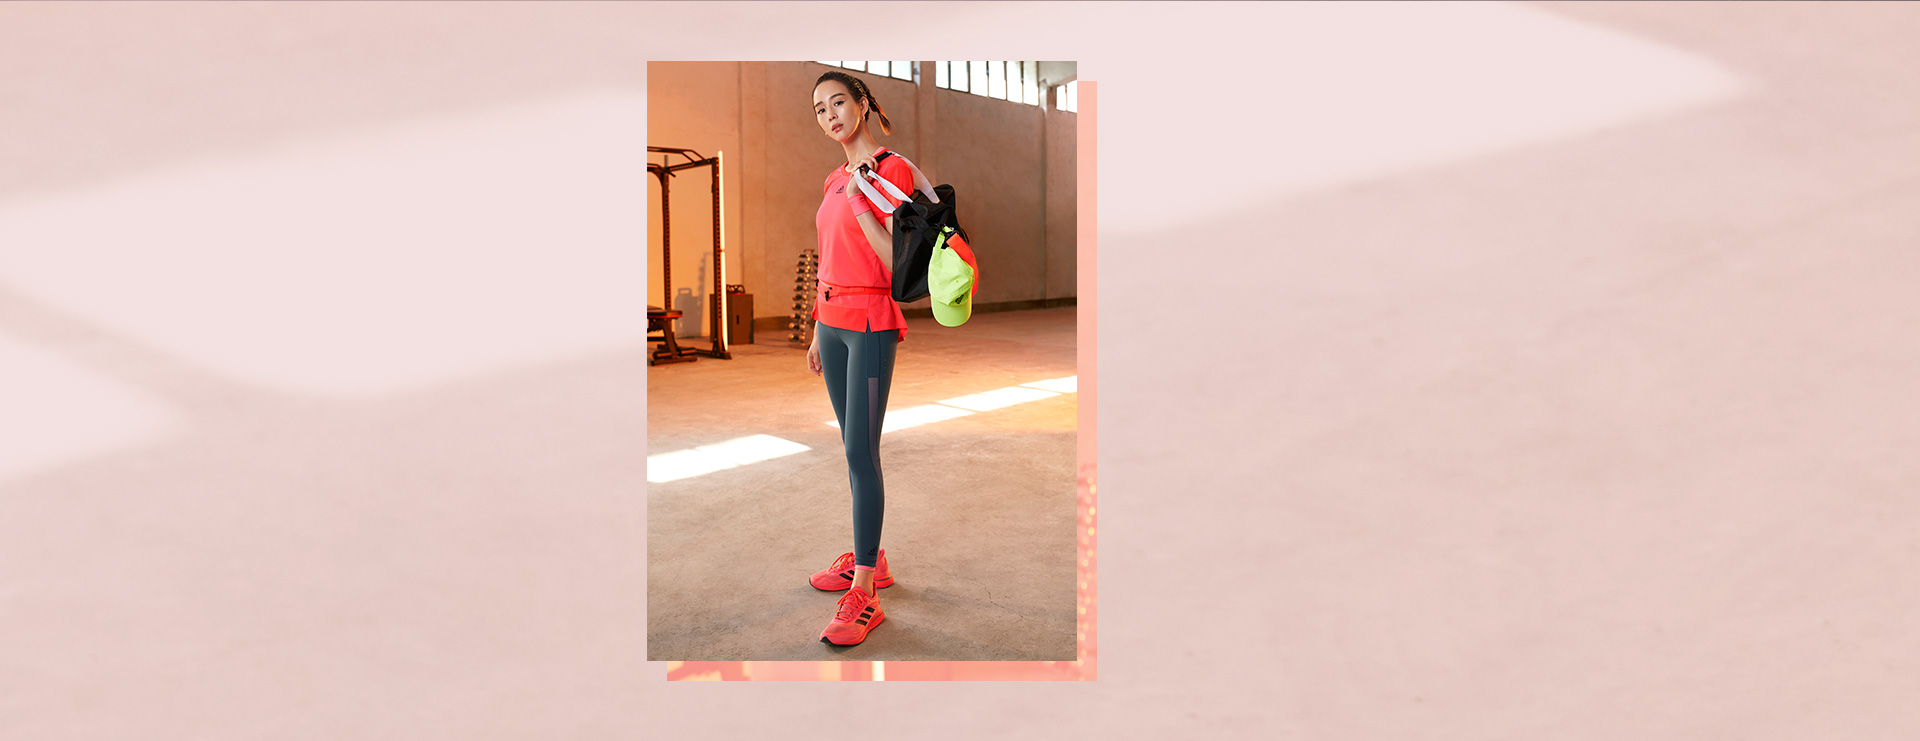
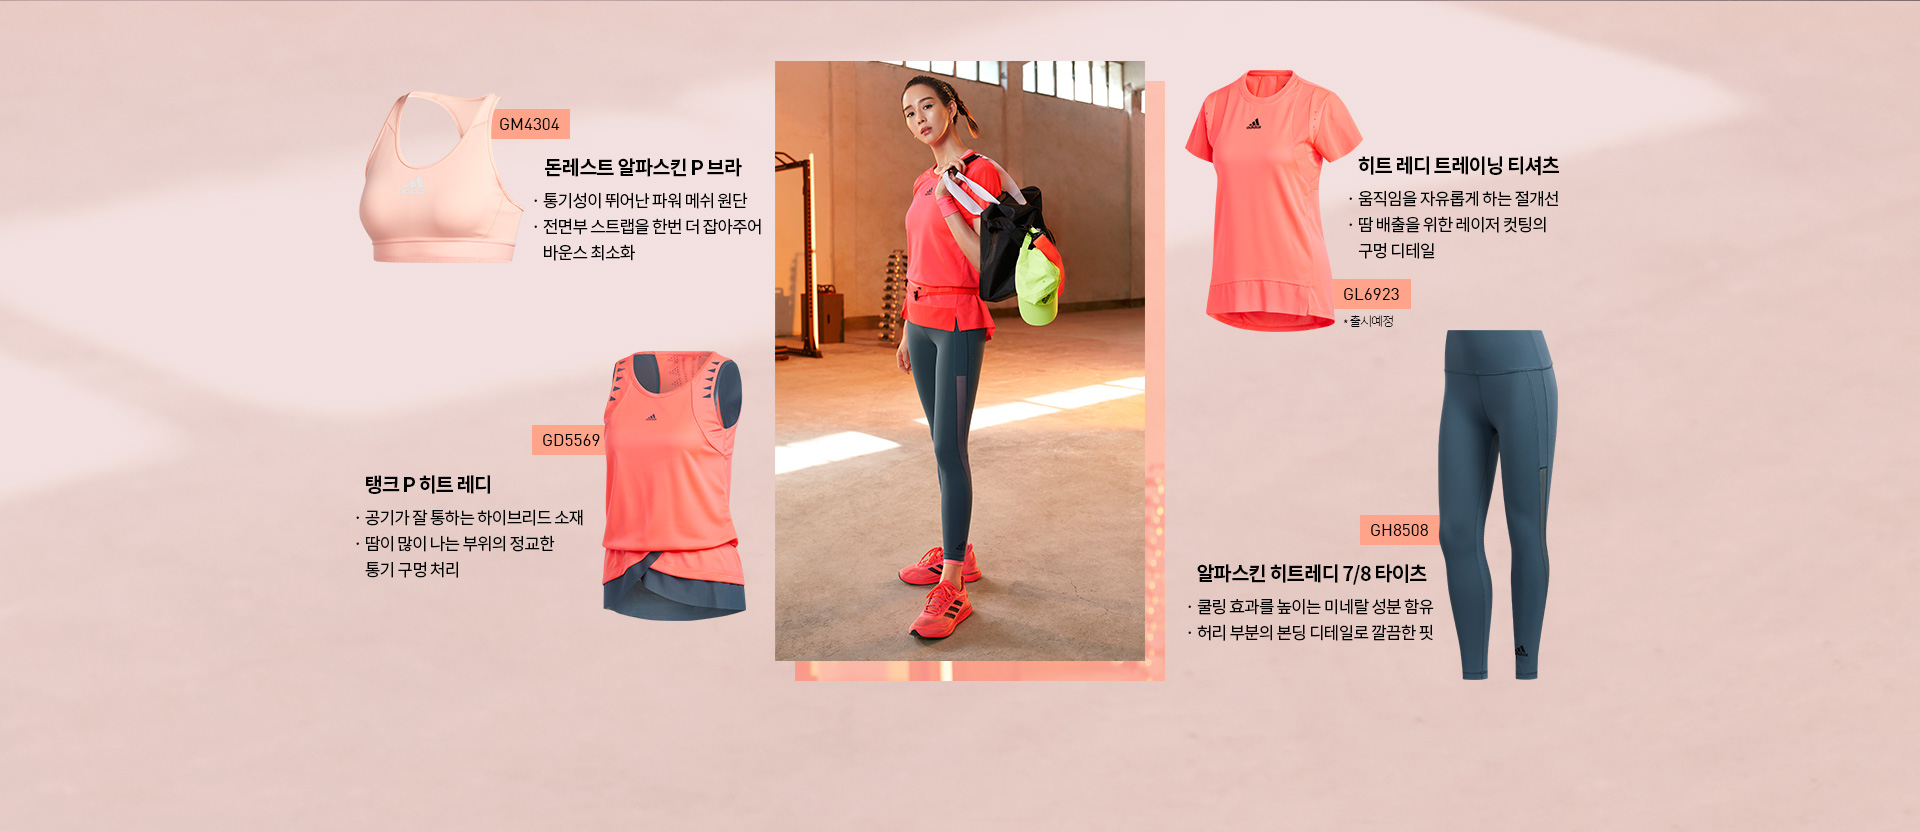
adi_CP_HEAT.RDY 업데이트

Changed region(s): [[0.1875, 0.0621, 0.8125, 0.9312]]

diff --git a/front/html/adidas/2020/event/rdy/0713_summer/build/index.html b/front/html/adidas/2020/event/rdy/0713_summer/build/index.html
@@ -30,7 +30,7 @@
 		<!-- header HTML -->
 
 		<div id="container_r" class="campaign-content">
-<style type="text/css">.pseudo-element{content:'';display:block}html,body{height:100%}#wrap{min-width:1190px;overflow:hidden}button{outline:none}.inner{max-width:1200px;margin:0 auto;position:relative;box-sizing:border-box}.button_area_v2{display:inline-block}.button_area_v2:hover div a{color:#767677}.button_area_v2:hover div a span{background:#767677}.button_area_v2:hover div a span em{background:#767677}.button_area_v2 div.white .bg{box-shadow:inset 0 0 0 1px #fff;-webkit-box-shadow:inset 0 0 0 1px #fff;transition:all 0.5s;-webkit-transition:all 0.5s;-moz-transition:all 0.5s;-o-transition:all 0.5s;-ms-transition:all 0.5s}.button_area_v2 div.white a{background:#fff}.button_area_v2 div .bg{box-shadow:inset 0 0 0 1px #000;-webkit-box-shadow:inset 0 0 0 1px #000;transition:all 0.5s;-webkit-transition:all 0.5s;-moz-transition:all 0.5s;-o-transition:all 0.5s;-ms-transition:all 0.5s}.button_area_v2 div a{letter-spacing:1px;padding:0 20px;background:#000}#readyforsummer{max-width:1920px}#readyforsummer .section{position:relative}#readyforsummer .section.sect_visual>img{display:block;width:100%}#readyforsummer .section.sect_visual .sect_visual_title{display:inline-block;width:1100px;position:absolute;top:15%;left:50%;margin-left:calc(-1100px/2);z-index:2;font-family:'NotoSansKR';color:#fff}#readyforsummer .section.sect_visual .sect_visual_title.dn{display:none}#readyforsummer .section.sect_visual .sect_visual_title h3>img{display:block}#readyforsummer .section.sect_visual .sect_visual_title h4{padding-top:15px;font-size:48px;line-height:48px;font-weight:600}#readyforsummer .section.sect_line>img{display:block;width:100%}#readyforsummer .section.sect_video{text-align:center}#readyforsummer .section.sect_video .btn-play{display:inline-block;position:absolute;top:50%;left:50%;transform:translate(-50%, -50%);z-index:2;background:none;border:0 none;cursor:pointer}#readyforsummer .section.sect_statment{padding:35px 0 50px}#readyforsummer .section.sect_statment .inner{color:#000;text-align:center}#readyforsummer .section.sect_statment .inner>*{text-align:center}#readyforsummer .section.sect_statment .inner h3{padding-bottom:15px}#readyforsummer .section.sect_statment .inner h3>img{display:inline-block}#readyforsummer .section.sect_statment .inner h4{padding-bottom:25px;font:600 48px/48px 'NotoSansKR';letter-spacing:4px}#readyforsummer .section.sect_statment .inner p{padding-bottom:25px;font:400 20px/26px 'NotoSansKR';letter-spacing:1px}#readyforsummer .section.sect_statment .inner p.boldtext{font-size:24px;line-height:30px;font-weight:600}#readyforsummer .section.sect_statment .inner .button_area_v2{margin-top:20px;display:inline-block}#readyforsummer .section.sect_feature{padding:70px 0;background:url("/images/adidas/2020/event/rdy/0713_summer/feature_bg.jpg") 0 0 no-repeat;background-size:auto 100%}#readyforsummer .section.sect_feature ul{overflow:hidden;width:76.5625%;min-width:1300px;margin:0 auto}#readyforsummer .section.sect_feature ul li{float:left;width:31.2925%;padding:0 1.0204%;color:#000}#readyforsummer .section.sect_feature ul li img{display:block;width:100%}#readyforsummer .section.sect_feature ul li h5{padding:30px 0 10px;font:600 26px/26px 'NotoSansKR';text-align:center}#readyforsummer .section.sect_feature ul li p{font:400 20px/20px 'NotoSansKR';text-align:center}#readyforsummer .section.sect_prds{height:740px}#readyforsummer .section.sect_prds>*{position:absolute;top:0;left:50%;transform:translateX(-50%);z-index:1}#readyforsummer .section.sect_prds .sect_prds_bg{width:1920px}#readyforsummer .section.sect_prds .sect_prds_img{width:1440px;top:60px}#readyforsummer .section.sect_prds .sect_prds_img>img{display:block}#readyforsummer .section.sect_prds .sect_prds_img .sect_prds_buybox{position:absolute;bottom:0;left:125px;z-index:2}#readyforsummer .section.sect_prds .sect_prds_img .sect_prds_buybox h3>img{display:inline-block}#readyforsummer .section.sect_prds .sect_prds_img .sect_prds_buybox .button_area_v2{margin-top:15px;display:inline-block}#readyforsummer .section.sect_prds .sect_prds_img .sect_prds_buybox.posright{left:auto;right:125px;bottom:-20px;text-align:right}#readyforsummer .section.sect_prds .sect_prds_img .sect_prds_buybox.posright h3{text-align:right}#readyforsummer .section.sect_subcut ul{overflow:hidden;width:100%}#readyforsummer .section.sect_subcut ul li{float:left;width:25%}#readyforsummer .section.sect_subcut ul li img{display:block;width:100%}
+<style type="text/css">.pseudo-element{content:'';display:block}html,body{height:100%}#wrap{min-width:1190px;overflow:hidden}button{outline:none}.inner{max-width:1200px;margin:0 auto;position:relative;box-sizing:border-box}.button_area_v2{display:inline-block}.button_area_v2:hover div a{color:#767677}.button_area_v2:hover div a span{background:#767677}.button_area_v2:hover div a span em{background:#767677}.button_area_v2 div.white .bg{box-shadow:inset 0 0 0 1px #fff;-webkit-box-shadow:inset 0 0 0 1px #fff;transition:all 0.5s;-webkit-transition:all 0.5s;-moz-transition:all 0.5s;-o-transition:all 0.5s;-ms-transition:all 0.5s}.button_area_v2 div.white a{background:#fff}.button_area_v2 div .bg{box-shadow:inset 0 0 0 1px #000;-webkit-box-shadow:inset 0 0 0 1px #000;transition:all 0.5s;-webkit-transition:all 0.5s;-moz-transition:all 0.5s;-o-transition:all 0.5s;-ms-transition:all 0.5s}.button_area_v2 div a{letter-spacing:1px;padding:0 20px;background:#000}#readyforsummer{max-width:1920px}#readyforsummer .section{position:relative}#readyforsummer .section.sect_visual>img{display:block;width:100%}#readyforsummer .section.sect_visual .sect_visual_title{display:inline-block;width:1100px;position:absolute;top:15%;left:50%;margin-left:calc(-1100px/2);z-index:2;font-family:'NotoSansKR';color:#fff}#readyforsummer .section.sect_visual .sect_visual_title.dn{display:none}#readyforsummer .section.sect_visual .sect_visual_title h3>img{display:block}#readyforsummer .section.sect_visual .sect_visual_title h4{padding-top:15px;font-size:48px;line-height:48px;font-weight:600}#readyforsummer .section.sect_line>img{display:block;width:100%}#readyforsummer .section.sect_video{text-align:center}#readyforsummer .section.sect_video .btn-play{display:inline-block;position:absolute;top:50%;left:50%;transform:translate(-50%, -50%);z-index:2;background:none;border:0 none;cursor:pointer}#readyforsummer .section.sect_statment{padding:35px 0 50px}#readyforsummer .section.sect_statment .inner{color:#000;text-align:center}#readyforsummer .section.sect_statment .inner>*{text-align:center}#readyforsummer .section.sect_statment .inner h3{padding-bottom:15px}#readyforsummer .section.sect_statment .inner h3>img{display:inline-block}#readyforsummer .section.sect_statment .inner h4{padding-bottom:25px;font:600 48px/48px 'NotoSansKR';letter-spacing:4px}#readyforsummer .section.sect_statment .inner p{padding-bottom:25px;font:400 20px/26px 'NotoSansKR';letter-spacing:1px}#readyforsummer .section.sect_statment .inner p.boldtext{font-size:24px;line-height:30px;font-weight:600}#readyforsummer .section.sect_statment .inner .button_area_v2{margin-top:20px;display:inline-block}#readyforsummer .section.sect_feature{padding:70px 0;background:url("/images/adidas/2020/event/rdy/0713_summer/feature_bg.jpg") 0 0 no-repeat;background-size:auto 100%}#readyforsummer .section.sect_feature ul{overflow:hidden;width:76.5625%;min-width:1300px;margin:0 auto}#readyforsummer .section.sect_feature ul li{float:left;width:31.2925%;padding:0 1.0204%;color:#000}#readyforsummer .section.sect_feature ul li img{display:block;width:100%}#readyforsummer .section.sect_feature ul li h5{padding:30px 0 10px;font:600 26px/26px 'NotoSansKR';text-align:center}#readyforsummer .section.sect_feature ul li p{font:400 20px/20px 'NotoSansKR';text-align:center}#readyforsummer .section.sect_prds{height:831px}#readyforsummer .section.sect_prds .sect_prds_bg{width:1920px;position:absolute;top:0;left:50%;transform:translateX(-50%);z-index:1}#readyforsummer .section.sect_prds .sect_prds_img{width:1440px;height:100%;top:60px}#readyforsummer .section.sect_prds .sect_prds_img .sect_prds_buybox{position:absolute;bottom:8%;left:50%;transform:translateX(-50%);z-index:2}#readyforsummer .section.sect_prds .sect_prds_img .sect_prds_buybox h3{display:inline-block;float:left}#readyforsummer .section.sect_prds .sect_prds_img .sect_prds_buybox h3>img{display:inline-block}#readyforsummer .section.sect_prds .sect_prds_img .sect_prds_buybox .button_area_v2{margin:-7px 0 0 30px;float:left;display:inline-block}#readyforsummer .section.sect_subcut ul{overflow:hidden;width:100%}#readyforsummer .section.sect_subcut ul li{float:left;width:25%}#readyforsummer .section.sect_subcut ul li img{display:block;width:100%}
 </style>
 
 			<div id="readyforsummer" class="readyforsummer">
@@ -101,8 +101,7 @@
 				<div class="section sect_prds">
 					<div class="sect_prds_bg"><img src="/images/adidas/2020/event/rdy/0713_summer/prds_01_bg.jpg" alt=""></div>
 					<div class="sect_prds_img">
-						<img src="/images/adidas/2020/event/rdy/0713_summer/prds_01_item.png" alt="">
-						<div class="sect_prds_buybox">
+						<div class="sect_prds_buybox" style="transform: translateX(-45%);">
 							<h3><img src="/images/adidas/2020/event/rdy/0713_summer/state_title.png" alt="HEAT.RDY"></h3>
 							<div class="button_area_v2" style="">
 								<div class="">
@@ -123,8 +122,7 @@
 				<div class="section sect_prds">
 					<div class="sect_prds_bg"><img src="/images/adidas/2020/event/rdy/0713_summer/prds_02_bg.jpg" alt=""></div>
 					<div class="sect_prds_img">
-						<img src="/images/adidas/2020/event/rdy/0713_summer/prds_02_item.png" alt="">
-						<div class="sect_prds_buybox posright">
+						<div class="sect_prds_buybox" style="transform: translateX(-28%);">
 							<h3><img src="/images/adidas/2020/event/rdy/0713_summer/state_title.png" alt="HEAT.RDY"></h3>
 							<div class="button_area_v2" style="">
 								<div class="">

diff --git a/front/html/adidas/html/pn/HEATRDY.html b/front/html/adidas/html/pn/HEATRDY.html
@@ -1,5 +1,5 @@
 <div id="container_r" class="campaign-content">
-<style type="text/css">.pseudo-element{content:'';display:block}html,body{height:100%}#wrap{min-width:1190px;overflow:hidden}button{outline:none}.inner{max-width:1200px;margin:0 auto;position:relative;box-sizing:border-box}.button_area_v2{display:inline-block}.button_area_v2:hover div a{color:#767677}.button_area_v2:hover div a span{background:#767677}.button_area_v2:hover div a span em{background:#767677}.button_area_v2 div.white .bg{box-shadow:inset 0 0 0 1px #fff;-webkit-box-shadow:inset 0 0 0 1px #fff;transition:all 0.5s;-webkit-transition:all 0.5s;-moz-transition:all 0.5s;-o-transition:all 0.5s;-ms-transition:all 0.5s}.button_area_v2 div.white a{background:#fff}.button_area_v2 div .bg{box-shadow:inset 0 0 0 1px #000;-webkit-box-shadow:inset 0 0 0 1px #000;transition:all 0.5s;-webkit-transition:all 0.5s;-moz-transition:all 0.5s;-o-transition:all 0.5s;-ms-transition:all 0.5s}.button_area_v2 div a{letter-spacing:1px;padding:0 20px;background:#000}#readyforsummer{max-width:1920px}#readyforsummer .section{position:relative}#readyforsummer .section.sect_visual>img{display:block;width:100%}#readyforsummer .section.sect_visual .sect_visual_title{display:inline-block;width:1100px;position:absolute;top:15%;left:50%;margin-left:calc(-1100px/2);z-index:2;font-family:'NotoSansKR';color:#fff}#readyforsummer .section.sect_visual .sect_visual_title.dn{display:none}#readyforsummer .section.sect_visual .sect_visual_title h3>img{display:block}#readyforsummer .section.sect_visual .sect_visual_title h4{padding-top:15px;font-size:48px;line-height:48px;font-weight:600}#readyforsummer .section.sect_line>img{display:block;width:100%}#readyforsummer .section.sect_video{text-align:center}#readyforsummer .section.sect_video .btn-play{display:inline-block;position:absolute;top:50%;left:50%;transform:translate(-50%, -50%);z-index:2;background:none;border:0 none;cursor:pointer}#readyforsummer .section.sect_statment{padding:35px 0 50px}#readyforsummer .section.sect_statment .inner{color:#000;text-align:center}#readyforsummer .section.sect_statment .inner>*{text-align:center}#readyforsummer .section.sect_statment .inner h3{padding-bottom:15px}#readyforsummer .section.sect_statment .inner h3>img{display:inline-block}#readyforsummer .section.sect_statment .inner h4{padding-bottom:25px;font:600 48px/48px 'NotoSansKR';letter-spacing:4px}#readyforsummer .section.sect_statment .inner p{padding-bottom:25px;font:400 20px/26px 'NotoSansKR';letter-spacing:1px}#readyforsummer .section.sect_statment .inner p.boldtext{font-size:24px;line-height:30px;font-weight:600}#readyforsummer .section.sect_statment .inner .button_area_v2{margin-top:20px;display:inline-block}#readyforsummer .section.sect_feature{padding:70px 0;background:url("/images/adidas/2020/event/rdy/0713_summer/feature_bg.jpg") 0 0 no-repeat;background-size:auto 100%}#readyforsummer .section.sect_feature ul{overflow:hidden;width:76.5625%;min-width:1300px;margin:0 auto}#readyforsummer .section.sect_feature ul li{float:left;width:31.2925%;padding:0 1.0204%;color:#000}#readyforsummer .section.sect_feature ul li img{display:block;width:100%}#readyforsummer .section.sect_feature ul li h5{padding:30px 0 10px;font:600 26px/26px 'NotoSansKR';text-align:center}#readyforsummer .section.sect_feature ul li p{font:400 20px/20px 'NotoSansKR';text-align:center}#readyforsummer .section.sect_prds{height:740px}#readyforsummer .section.sect_prds>*{position:absolute;top:0;left:50%;transform:translateX(-50%);z-index:1}#readyforsummer .section.sect_prds .sect_prds_bg{width:1920px}#readyforsummer .section.sect_prds .sect_prds_img{width:1440px;top:60px}#readyforsummer .section.sect_prds .sect_prds_img>img{display:block}#readyforsummer .section.sect_prds .sect_prds_img .sect_prds_buybox{position:absolute;bottom:0;left:125px;z-index:2}#readyforsummer .section.sect_prds .sect_prds_img .sect_prds_buybox h3>img{display:inline-block}#readyforsummer .section.sect_prds .sect_prds_img .sect_prds_buybox .button_area_v2{margin-top:15px;display:inline-block}#readyforsummer .section.sect_prds .sect_prds_img .sect_prds_buybox.posright{left:auto;right:125px;bottom:-20px;text-align:right}#readyforsummer .section.sect_prds .sect_prds_img .sect_prds_buybox.posright h3{text-align:right}#readyforsummer .section.sect_subcut ul{overflow:hidden;width:100%}#readyforsummer .section.sect_subcut ul li{float:left;width:25%}#readyforsummer .section.sect_subcut ul li img{display:block;width:100%}
+<style type="text/css">.pseudo-element{content:'';display:block}html,body{height:100%}#wrap{min-width:1190px;overflow:hidden}button{outline:none}.inner{max-width:1200px;margin:0 auto;position:relative;box-sizing:border-box}.button_area_v2{display:inline-block}.button_area_v2:hover div a{color:#767677}.button_area_v2:hover div a span{background:#767677}.button_area_v2:hover div a span em{background:#767677}.button_area_v2 div.white .bg{box-shadow:inset 0 0 0 1px #fff;-webkit-box-shadow:inset 0 0 0 1px #fff;transition:all 0.5s;-webkit-transition:all 0.5s;-moz-transition:all 0.5s;-o-transition:all 0.5s;-ms-transition:all 0.5s}.button_area_v2 div.white a{background:#fff}.button_area_v2 div .bg{box-shadow:inset 0 0 0 1px #000;-webkit-box-shadow:inset 0 0 0 1px #000;transition:all 0.5s;-webkit-transition:all 0.5s;-moz-transition:all 0.5s;-o-transition:all 0.5s;-ms-transition:all 0.5s}.button_area_v2 div a{letter-spacing:1px;padding:0 20px;background:#000}#readyforsummer{max-width:1920px}#readyforsummer .section{position:relative}#readyforsummer .section.sect_visual>img{display:block;width:100%}#readyforsummer .section.sect_visual .sect_visual_title{display:inline-block;width:1100px;position:absolute;top:15%;left:50%;margin-left:calc(-1100px/2);z-index:2;font-family:'NotoSansKR';color:#fff}#readyforsummer .section.sect_visual .sect_visual_title.dn{display:none}#readyforsummer .section.sect_visual .sect_visual_title h3>img{display:block}#readyforsummer .section.sect_visual .sect_visual_title h4{padding-top:15px;font-size:48px;line-height:48px;font-weight:600}#readyforsummer .section.sect_line>img{display:block;width:100%}#readyforsummer .section.sect_video{text-align:center}#readyforsummer .section.sect_video .btn-play{display:inline-block;position:absolute;top:50%;left:50%;transform:translate(-50%, -50%);z-index:2;background:none;border:0 none;cursor:pointer}#readyforsummer .section.sect_statment{padding:35px 0 50px}#readyforsummer .section.sect_statment .inner{color:#000;text-align:center}#readyforsummer .section.sect_statment .inner>*{text-align:center}#readyforsummer .section.sect_statment .inner h3{padding-bottom:15px}#readyforsummer .section.sect_statment .inner h3>img{display:inline-block}#readyforsummer .section.sect_statment .inner h4{padding-bottom:25px;font:600 48px/48px 'NotoSansKR';letter-spacing:4px}#readyforsummer .section.sect_statment .inner p{padding-bottom:25px;font:400 20px/26px 'NotoSansKR';letter-spacing:1px}#readyforsummer .section.sect_statment .inner p.boldtext{font-size:24px;line-height:30px;font-weight:600}#readyforsummer .section.sect_statment .inner .button_area_v2{margin-top:20px;display:inline-block}#readyforsummer .section.sect_feature{padding:70px 0;background:url("/images/adidas/2020/event/rdy/0713_summer/feature_bg.jpg") 0 0 no-repeat;background-size:auto 100%}#readyforsummer .section.sect_feature ul{overflow:hidden;width:76.5625%;min-width:1300px;margin:0 auto}#readyforsummer .section.sect_feature ul li{float:left;width:31.2925%;padding:0 1.0204%;color:#000}#readyforsummer .section.sect_feature ul li img{display:block;width:100%}#readyforsummer .section.sect_feature ul li h5{padding:30px 0 10px;font:600 26px/26px 'NotoSansKR';text-align:center}#readyforsummer .section.sect_feature ul li p{font:400 20px/20px 'NotoSansKR';text-align:center}#readyforsummer .section.sect_prds{height:831px}#readyforsummer .section.sect_prds .sect_prds_bg{width:1920px;position:absolute;top:0;left:50%;transform:translateX(-50%);z-index:1}#readyforsummer .section.sect_prds .sect_prds_img{width:1440px;height:100%;top:60px}#readyforsummer .section.sect_prds .sect_prds_img .sect_prds_buybox{position:absolute;bottom:8%;left:50%;transform:translateX(-50%);z-index:2}#readyforsummer .section.sect_prds .sect_prds_img .sect_prds_buybox h3{display:inline-block;float:left}#readyforsummer .section.sect_prds .sect_prds_img .sect_prds_buybox h3>img{display:inline-block}#readyforsummer .section.sect_prds .sect_prds_img .sect_prds_buybox .button_area_v2{margin:-7px 0 0 30px;float:left;display:inline-block}#readyforsummer .section.sect_subcut ul{overflow:hidden;width:100%}#readyforsummer .section.sect_subcut ul li{float:left;width:25%}#readyforsummer .section.sect_subcut ul li img{display:block;width:100%}
 </style>
 
 			<div id="readyforsummer" class="readyforsummer">
@@ -70,8 +70,7 @@
 				<div class="section sect_prds">
 					<div class="sect_prds_bg"><img src="/images/adidas/2020/event/rdy/0713_summer/prds_01_bg.jpg" alt=""></div>
 					<div class="sect_prds_img">
-						<img src="/images/adidas/2020/event/rdy/0713_summer/prds_01_item.png" alt="">
-						<div class="sect_prds_buybox">
+						<div class="sect_prds_buybox" style="transform: translateX(-45%);">
 							<h3><img src="/images/adidas/2020/event/rdy/0713_summer/state_title.png" alt="HEAT.RDY"></h3>
 							<div class="button_area_v2" style="">
 								<div class="">
@@ -92,8 +91,7 @@
 				<div class="section sect_prds">
 					<div class="sect_prds_bg"><img src="/images/adidas/2020/event/rdy/0713_summer/prds_02_bg.jpg" alt=""></div>
 					<div class="sect_prds_img">
-						<img src="/images/adidas/2020/event/rdy/0713_summer/prds_02_item.png" alt="">
-						<div class="sect_prds_buybox posright">
+						<div class="sect_prds_buybox" style="transform: translateX(-28%);">
 							<h3><img src="/images/adidas/2020/event/rdy/0713_summer/state_title.png" alt="HEAT.RDY"></h3>
 							<div class="button_area_v2" style="">
 								<div class="">

diff --git a/front/html/adidas/2020/event/rdy/0713_summer/index.html b/front/html/adidas/2020/event/rdy/0713_summer/index.html
@@ -99,8 +99,7 @@
 				<div class="section sect_prds">
 					<div class="sect_prds_bg"><img src="/images/adidas/2020/event/rdy/0713_summer/prds_01_bg.jpg" alt=""></div>
 					<div class="sect_prds_img">
-						<img src="/images/adidas/2020/event/rdy/0713_summer/prds_01_item.png" alt="">
-						<div class="sect_prds_buybox">
+						<div class="sect_prds_buybox" style="transform: translateX(-45%);">
 							<h3><img src="/images/adidas/2020/event/rdy/0713_summer/state_title.png" alt="HEAT.RDY"></h3>
 							<div class="button_area_v2" style="">
 								<div class="">
@@ -121,8 +120,7 @@
 				<div class="section sect_prds">
 					<div class="sect_prds_bg"><img src="/images/adidas/2020/event/rdy/0713_summer/prds_02_bg.jpg" alt=""></div>
 					<div class="sect_prds_img">
-						<img src="/images/adidas/2020/event/rdy/0713_summer/prds_02_item.png" alt="">
-						<div class="sect_prds_buybox posright">
+						<div class="sect_prds_buybox" style="transform: translateX(-28%);">
 							<h3><img src="/images/adidas/2020/event/rdy/0713_summer/state_title.png" alt="HEAT.RDY"></h3>
 							<div class="button_area_v2" style="">
 								<div class="">

diff --git a/front/html/adidas/2020/event/rdy/0713_summer/index.scss b/front/html/adidas/2020/event/rdy/0713_summer/index.scss
@@ -189,45 +189,37 @@ button{
 		}
 
 		&.sect_prds {
-			height: 740px;
-			>*{
+			height: 831px;
+			.sect_prds_bg{
+				width: 1920px;
 				position: absolute;
 				top: 0;
 				left: 50%;
 				transform: translateX(-50%);
 				z-index: 1;
 			}
-			.sect_prds_bg{
-				width: 1920px;
-			}
 			.sect_prds_img{
 				width: 1440px;
+				height: 100%;
 				top: 60px;
-				>img{
-					display: block;
-				}
 				.sect_prds_buybox{
+					// overflow: hidden;
 					position: absolute;
-					bottom: 0;
-					left: 125px;
+					bottom: 8%;
+					left: 50%;
+					transform: translateX(-50%);
 					z-index: 2;
 					h3 {
+						display: inline-block;
+						float: left;
 						>img {
 							display: inline-block;
 						}
 					}
 					.button_area_v2 {
-						margin-top: 15px;
+						margin: -7px 0 0 30px;
+						float: left;
 						display: inline-block;
-					}
-					&.posright{
-						left: auto;
-						right: 125px;
-						bottom: -20px;
-						text-align: right;
-						h3{
-							text-align: right;
-						}
 					}
 				}
 			}	

diff --git a/front/css/reebok/reebok.css b/front/css/reebok/reebok.css
@@ -1928,7 +1928,7 @@ div.header_top{width:890px;height:100px;}
 #header_wrap_150930 #header_150930 .utilmenu li.mkt a{color:#d30011;}
 #header_wrap_150930 #header_150930 .utilmenu li.mkt a span{font-weight:normal;color:#656565;}
 
-#header_wrap_150930 #header_150930 .search_area_r{width:320px;height:30px;padding-left:10px;background-position:0 -760px;position:absolute;left:190px;top:23px;}
+#header_wrap_150930 #header_150930 .search_area_r{width:321px;height:30px;padding-left:10px;background-position:0 -760px;position:absolute;left:190px;top:23px;}
 #header_wrap_150930 #header_150930 .search_area_r .search_box{width:285px;height:26px;float:left;border-width:1px 0 !important;border-color:#cfcfcf;color:#656565;font:12px/26px 'Gulim';outline: none}
 #header_wrap_150930 #header_150930 .search_area_r .submit{width:32px;height:30px;float:left;background-position:0 -680px;cursor:pointer;}
 #header_wrap_150930 #header_150930 .search_area_r .submit:hover{background-position:0 -720px;}
